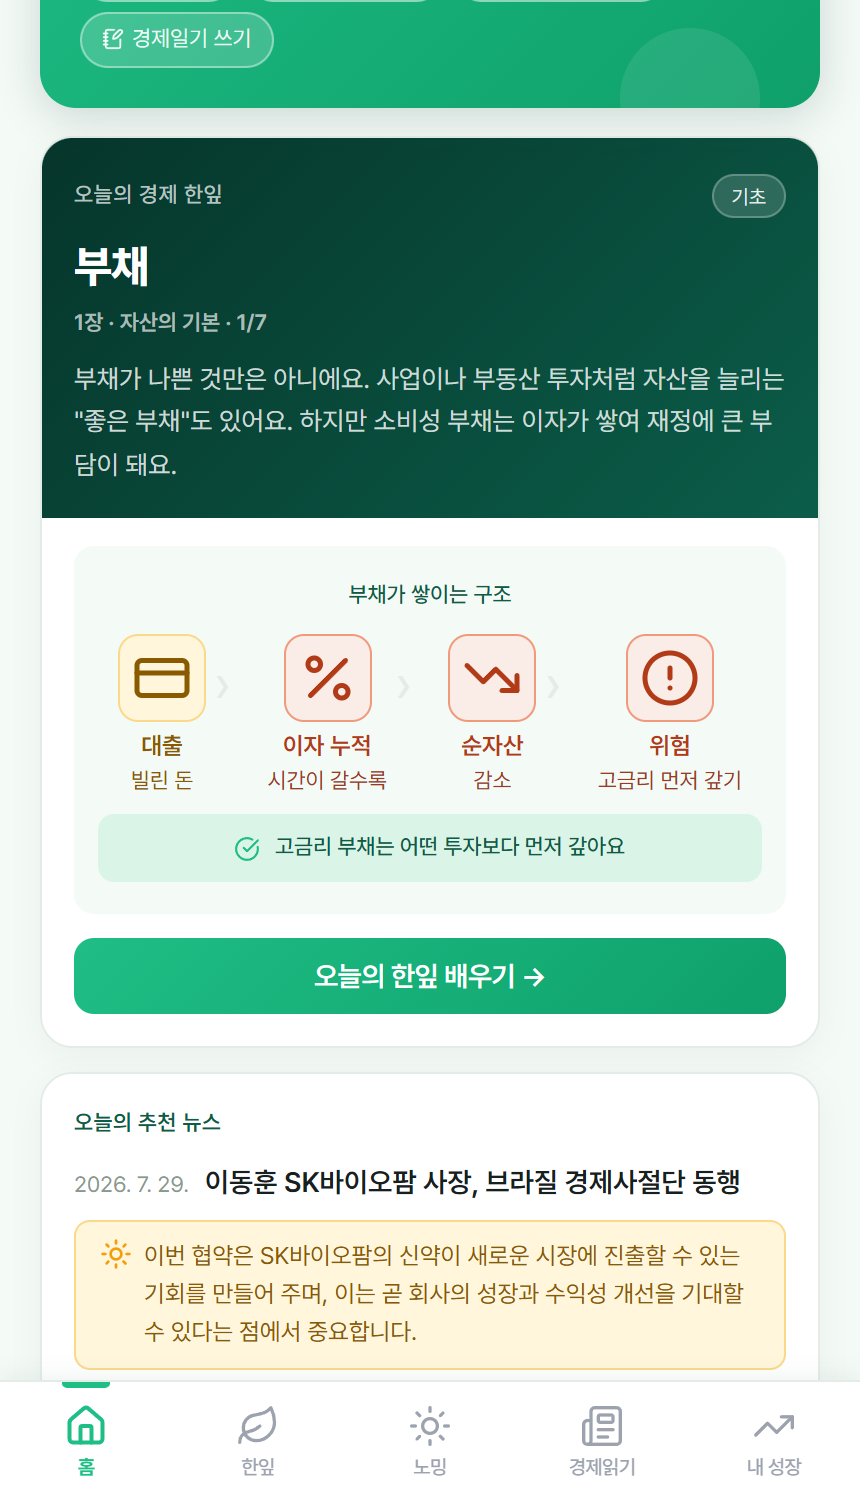
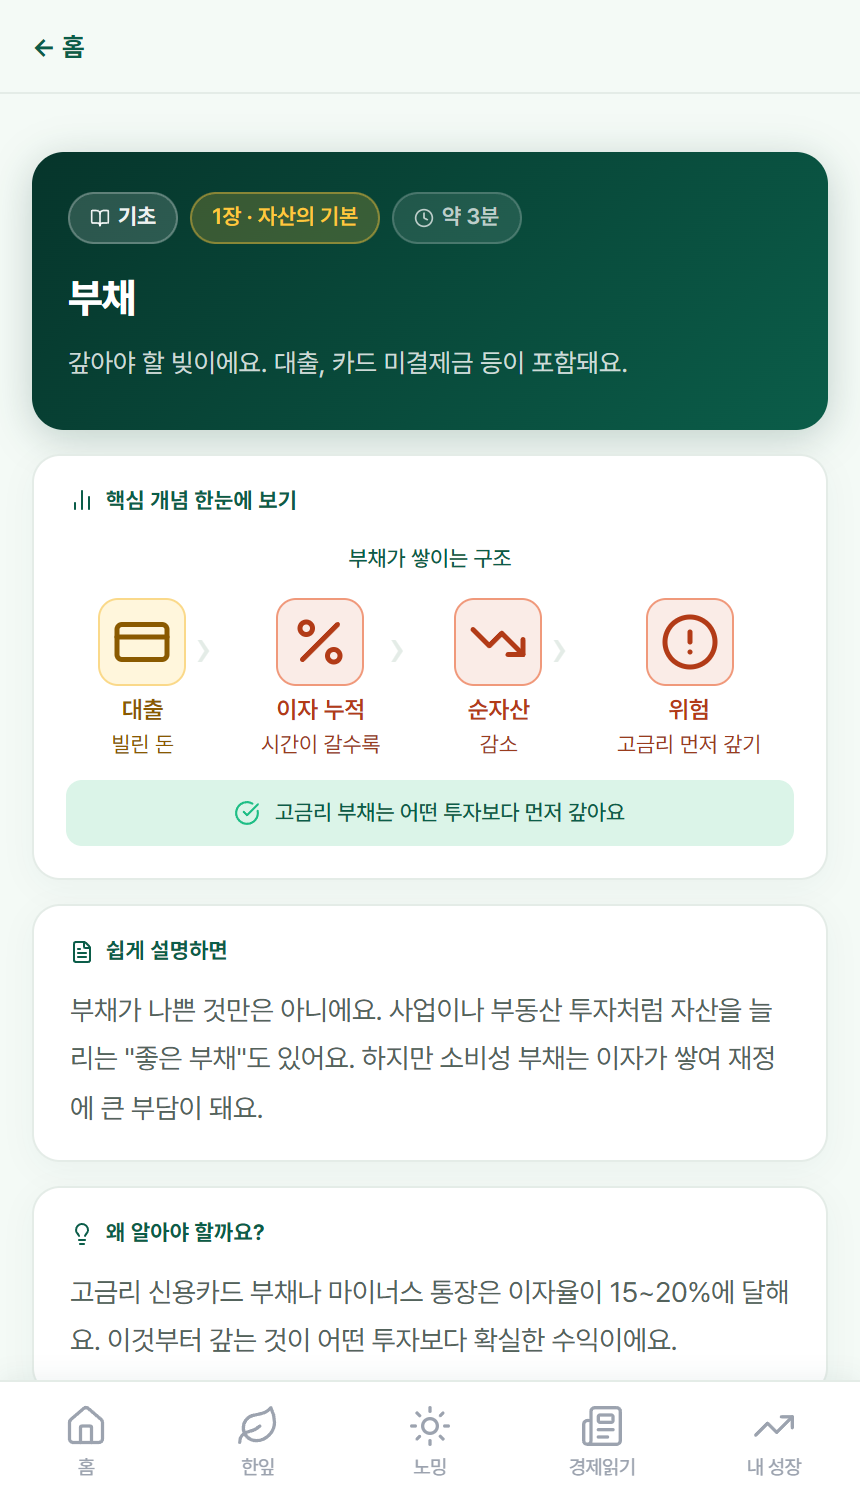
docs: 가이드 페이지 홈/한잎 스크린샷 최신화
- 홈 화면 압축 개편(초록 인사/XP, 다크그린 한잎, 노란 노밍, 브리핑 카드)에
  맞춰 03/04번 스크린샷 재캡처
- 3번 컷을 홈 카드 미리보기에서 /bite/:id 상세 화면(설명+인포그래픽)으로
  교체 — 가이드 문구("설명을 읽고, 인포그래픽으로 한 번 더 보고")와 실제
  화면 흐름이 일치하도록 alt 텍스트 및 본문 한 줄 보강

diff --git a/src/pages/GuidePage.jsx b/src/pages/GuidePage.jsx
@@ -199,10 +199,11 @@ export default function GuidePage() {
           </Body>
         </SideBySide>
 
-        <SideBySide image={`${BASE}guide/03-today-bite.png`} imageAlt="홈의 오늘의 한잎 카드 화면">
+        <SideBySide image={`${BASE}guide/03-today-bite.png`} imageAlt="한잎 상세 화면 — 설명과 인포그래픽">
           <StepHeading num="③" title="첫 한잎을 읽습니다" />
           <Body>
             홈 화면에 <b style={{ color: 'var(--c-ink)', fontWeight: '800' }}>오늘의 한잎</b>이 기다리고 있습니다.
+            카드를 누르면 이렇게 설명과 인포그래픽이 순서대로 나옵니다.
           </Body>
           <Body style={{ marginBottom: 0 }}>
             커리큘럼 1장 첫 번째 카드부터 시작합니다. 설명을 읽고, 인포그래픽으로 한 번 더 보고, 퀴즈를 풀면 끝.{'\n'}
